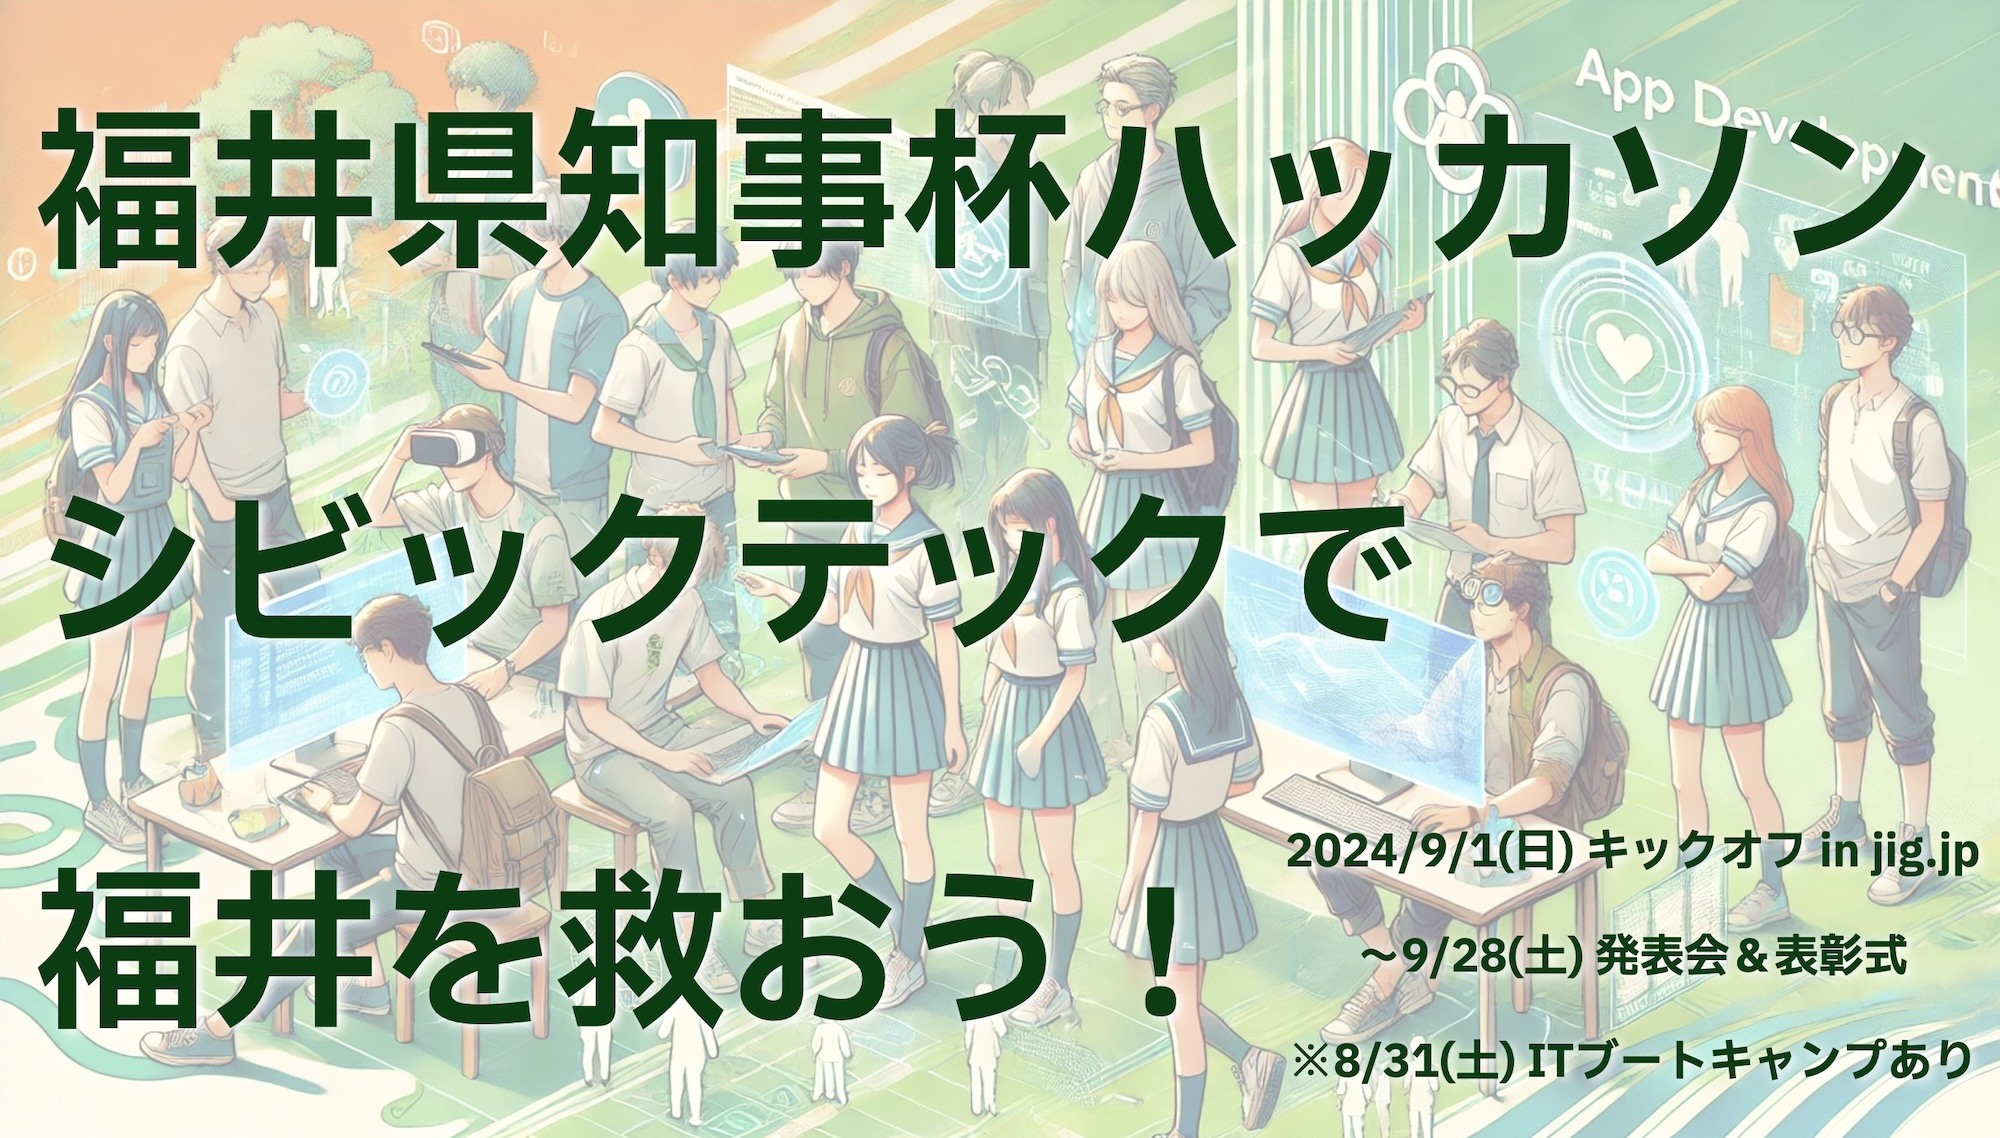
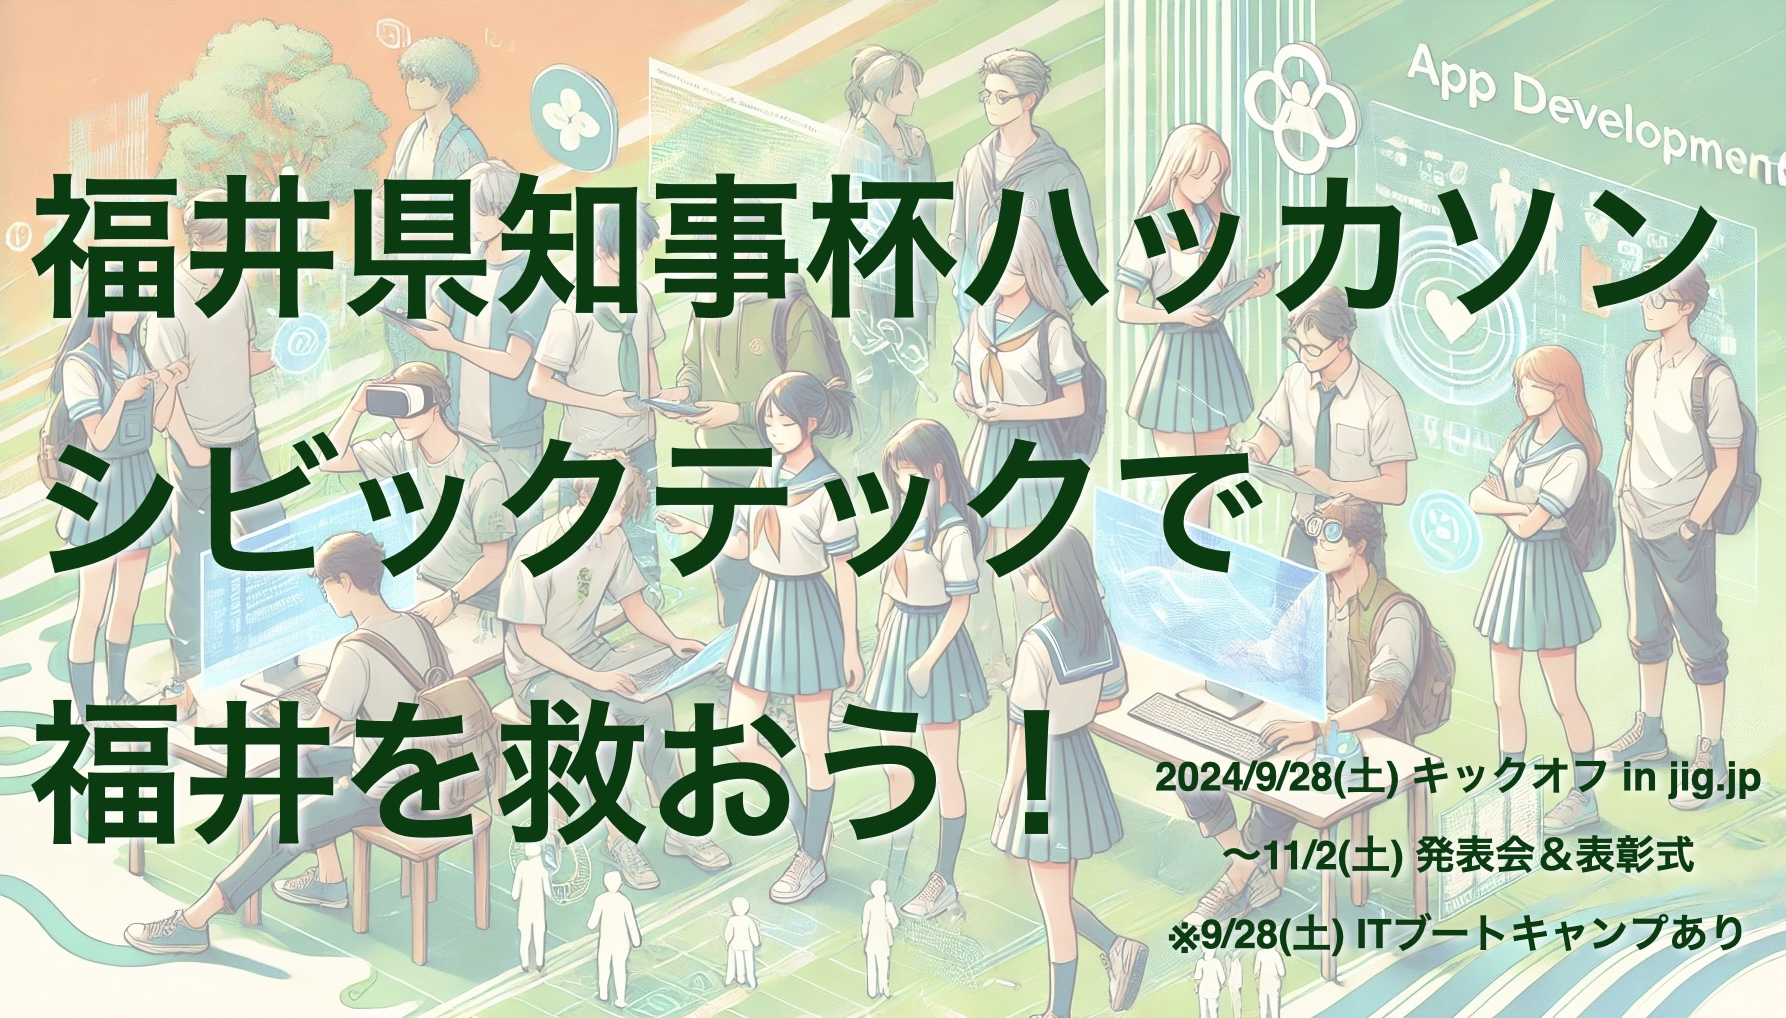
日程の変更

diff --git a/index.html b/index.html
@@ -43,7 +43,7 @@
     
     台風10号の影響を考慮し予定しておりました8/31(土)のハッカソン初心者講座、9/1(日)のDay1、9/28(土)のDay2の開催を延期させていただきます。
 
-    ハッカソン初心者対象講座は8/31(土)から9/28(土)の午前、Day1は9/1(日)から9/28(土)午後、Day2は9/28(土)から11/2(土),11/3(日),11/4(祝)のいずれかの日に延期させていただきます。
+    ハッカソン初心者対象講座は8/31(土)から9/28(土)の午前、Day1は9/1(日)から9/28(土)午後、Day2は9/28(土)から11/2(土)に延期させていただきます。
     
     ご不明な点やご質問等ございましたら、メールにてお問い合わせください。
     「福井県知事杯ハッカソン　２０２４」運営事務局
@@ -73,7 +73,7 @@
   
   <section>
   <h2>2. 日程</h2>
-  （１）Ｄａｙ１：令和６年９月１日（日）　１０時から１６時（予定）
+  （１）Ｄａｙ１：<s>令和６年９月１日（日）</s><span style="color:red">令和６年９月２８日（土）　１３時から１７時（予定）</span>
   　　　実施内容：自治体による課題プレゼンテーション、地域課題に対する解決手段のアイディア出し　等
   　　　テーマ：県内自治体から提示される地域課題<table>
     <tr>
@@ -94,7 +94,7 @@
         　　社会課題への解決策を自ら提案し実行する文化を更に育てたい。</td>
     </tr>
   </table>
-  （２）Ｄａｙ２：令和６年９月２８日（土）　１３時から１６時３０分（予定）
+  （２）Ｄａｙ２：<s>令和６年９月２８日（土）</s><span style="color:red">令和６年１１月２日（土）１３時から１６時３０分（予定）</span>
   　　　実施内容：各チームの成果発表、優秀チームの表彰　等
   
   （３）Ｄａｙ１からＤａｙ２までの１か月間はサービス・プロダクト開発の作業期間とします。
@@ -105,7 +105,7 @@
   　　　なお、年末までは社会実装に向けた支援（技術的アドバイスや勉強会など）を受けることができます。
   
   （５）ハッカソン初心者対象講座を開催します。
-  　　　日程：令和６年８月３１日（土）１３時から１７時
+  　　　日程：<s>令和６年８月３１日（土）</s><span style="color:red">令和６年９月２８日（土）９時から１２時（予定）</span>
   　　　内容：シビックテック入門、Ｗｅｂアプリ制作体験
   　　　全員参加ではありません。希望者のみ対象となります。
   　　　希望者はハッカソン申込時に参加登録をお願いします。
@@ -133,7 +133,7 @@
   <h2>5. 申し込み</h2>
   参加希望者は<a href="https://code4fukui.github.io/fukui-chijihai-hackathon-20240901/appreq.html">「応募要項」</a>を必ずご確認の上、
   参加フォームに必要事項を記載して申し込み下さい。
-  申し込み締切日：令和６年８月30日（金）    ※ 締切日を延長しました（8月21日）
+  申し込み締切日：<s>令和６年８月30日（金）</s>
   
   <a href="https://forms.gle/HKn8ab1UwC9VaQwGA">福井県知事杯ハッカソン　２０２４ 参加フォーム</a>
   </section>
